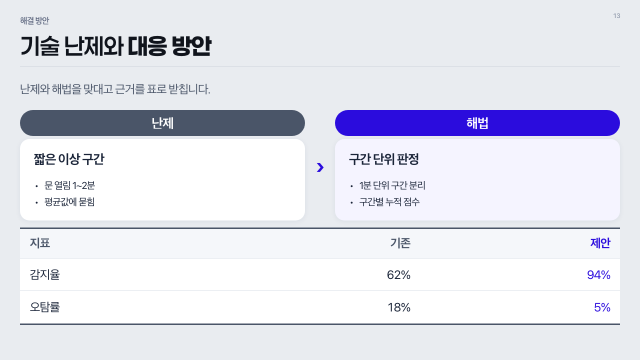
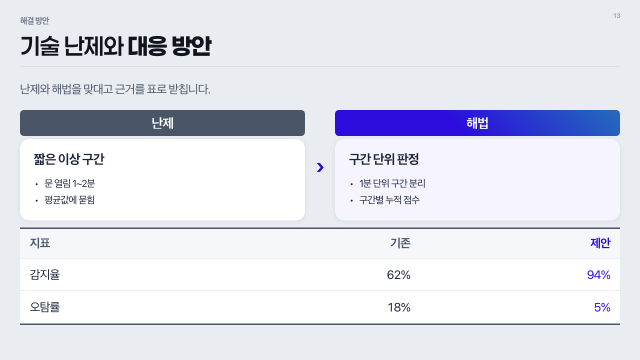
알약 모서리 8 + 초록 그라데이션, 카드는 위에서부터 채움(간격 최대 12px), 부품 체크리스트 추가
- shape.pill 999 → 8. 알약 바탕은 메인에 accent.glow(#19E68C 45%)가 오른쪽 위에서 내려오는 그라데이션(PPTX 는 단색)
- 카드·비교·단계·수치 본문을 위에서부터 채움. 덩어리·항목 사이 벌림은 최대 12px(HTML fit_slides, PPTX stack·listBox)
- templates/components.md: 부품 단위 디자인 체크리스트

diff --git a/docs/templates/deck.html b/docs/templates/deck.html
@@ -11,7 +11,7 @@
 deck-stage:not(:defined){visibility:hidden;}
 :root{
   --primary:#2B0CDD;--primary-2:#5D48FF;--primary-deep:#2815B0;
-  --primary-soft:#E8E5FF;--primary-softer:#F5F4FF;
+  --primary-soft:#E8E5FF;--pill-glow:#236EB9;--primary-softer:#F5F4FF;
   --accent:#00A89D;--gold:#C8A24B;--gold-light:#F2D78E;
   --success:#138A4E;--warning:#C97A1F;--danger:#C9302C;
   --bg-soft:#F5F7FA;--border:#D9DEE6;--border-strong:#B9C3D2;
@@ -53,7 +53,7 @@ body{font-family:var(--font);-webkit-font-smoothing:antialiased;color:var(--text
 .slabel{display:inline-flex;align-items:center;height:2.1em;padding:0 1.05em;background:var(--primary);color:#fff;font-size:var(--fs-card);font-weight:700;border-radius:8px;white-space:nowrap;line-height:1;margin-bottom:.8em;align-self:flex-start;}
 /* card: 제목 피약 + 흰 본문 — 투명 래퍼 + 독립 피약 + 독립 흰 박스 */
 .card{position:relative;background:transparent;border:0;border-radius:0;box-shadow:none;display:flex;flex-direction:column;min-height:0;overflow:visible;gap:.3em;font-size:var(--fs-body);}
-.card>.cap{background:var(--primary);color:#fff;font-size:var(--fs-card);font-weight:700;line-height:1.3;text-align:center;padding:.325em 1em;letter-spacing:-.01em;border-radius:999px;flex:0 0 auto;white-space:nowrap;}
+.card>.cap{background:linear-gradient(225deg,var(--pill-glow) 0%,var(--primary) 58%);color:#fff;font-size:var(--fs-card);font-weight:700;line-height:1.3;text-align:center;padding:.325em 1em;letter-spacing:-.01em;border-radius:8px;flex:0 0 auto;white-space:nowrap;}
 .card>.bd{background:#fff;border-radius:19px;box-shadow:var(--card-shadow);padding:.95em 1.4em 1em;display:flex;flex-direction:column;flex:1;min-height:0;overflow:hidden;}
 /* 강조 카드도 본문 박스는 흰색이다. 한 장표 안에서 카드 바탕이 서로 달라 보이면
    어느 쪽이 중요한지가 아니라 "왜 색이 다르지" 로 읽힌다. 강조는 알약 제목으로만 한다. */
@@ -63,7 +63,7 @@ body{font-family:var(--font);-webkit-font-smoothing:antialiased;color:var(--text
 .card.dark .ct{color:#fff;}
 .card .cd{font-size:var(--fs-small);color:var(--body);line-height:1.55;}
 .card.dark .cd{color:rgba(255,255,255,.85);}
-.card .fill{flex:1;min-height:0;display:flex;flex-direction:column;justify-content:space-evenly;}
+.card .fill{flex:1;min-height:0;display:flex;flex-direction:column;justify-content:flex-start;gap:12px;}   /* 위에서부터 채움, 덩어리 사이 12px */
 /* sub heading inside card: "| 채널 전체" */
 .sh2{font-size:calc(var(--fs-body) * .94);font-weight:700;color:var(--body);line-height:1.3;margin-bottom:.5em;}
 /* list */
@@ -79,8 +79,8 @@ ul.rl.row li .v{display:inline;margin-left:.5em;}
 .grid{display:grid;gap:calc(var(--gap) * 1.6);flex:1;min-height:0;}
 /* stat card: 제목 피약 + 수치 본문 — 투명 래퍼 + 독립 피약 + 독립 흰 박스 */
 .stat{position:relative;background:transparent;border-radius:0;box-shadow:none;display:flex;flex-direction:column;min-height:0;overflow:visible;gap:.3em;font-size:var(--fs-body);}
-.stat>.cap{background:var(--primary);color:#fff;font-size:var(--fs-card);font-weight:700;text-align:center;padding:.325em 1em;line-height:1.3;border-radius:999px;flex:0 0 auto;white-space:nowrap;}
-.stat>.bd{background:#fff;border-radius:19px;box-shadow:var(--card-shadow);padding:.95em 1.4em 1em;display:flex;flex-direction:column;justify-content:center;flex:1;min-height:0;overflow:hidden;}
+.stat>.cap{background:linear-gradient(225deg,var(--pill-glow) 0%,var(--primary) 58%);color:#fff;font-size:var(--fs-card);font-weight:700;text-align:center;padding:.325em 1em;line-height:1.3;border-radius:8px;flex:0 0 auto;white-space:nowrap;}
+.stat>.bd{background:#fff;border-radius:19px;box-shadow:var(--card-shadow);padding:.95em 1.4em 1em;display:flex;flex-direction:column;justify-content:flex-start;flex:1;min-height:0;overflow:hidden;}
 .stat .sl{font-size:var(--fs-small);color:var(--body);font-weight:500;}
 .stat .sv{font-size:var(--fs-stat);font-weight:800;color:var(--text);line-height:1.05;margin-top:.1em;letter-spacing:-.04em;font-variant-numeric:tabular-nums;}
 .stat .sv small{font-size:.5em;color:var(--text);margin-left:.05em;font-weight:700;}
@@ -127,12 +127,12 @@ table.rt{width:100%;border-collapse:collapse;font-size:calc(var(--fs-table) * va
 /* compare: two labeled cards */
 .cmp{display:grid;grid-template-columns:1fr 3em 1fr;align-items:stretch;flex:1;min-height:0;font-size:var(--fs-body);}
 .side{position:relative;background:transparent;border-radius:0;box-shadow:none;display:flex;flex-direction:column;min-height:0;overflow:visible;gap:.3em;}
-.side>.cap{background:var(--text-mid);color:#fff;font-size:var(--fs-card);font-weight:700;text-align:center;padding:.325em 1em;line-height:1.3;border-radius:999px;flex:0 0 auto;white-space:nowrap;}
-.side.to>.cap{background:var(--primary);}
+.side>.cap{background:var(--text-mid);color:#fff;font-size:var(--fs-card);font-weight:700;text-align:center;padding:.325em 1em;line-height:1.3;border-radius:8px;flex:0 0 auto;white-space:nowrap;}
+.side.to>.cap{background:linear-gradient(225deg,var(--pill-glow) 0%,var(--primary) 58%);}
 .side>.bd{background:#fff;border-radius:19px;box-shadow:var(--card-shadow);padding:.95em 1.4em 1em;display:flex;flex-direction:column;flex:1;min-height:0;overflow:hidden;}
 .side.to>.bd{background:var(--primary-softer);}
 .side .sh{font-size:var(--fs-card);font-weight:700;margin:.1em 0 .6em;color:var(--text);}
-.side .fill{flex:1;min-height:0;display:flex;flex-direction:column;justify-content:space-evenly;}
+.side .fill{flex:1;min-height:0;display:flex;flex-direction:column;justify-content:flex-start;gap:12px;}
 .cmp .arr{display:flex;align-items:center;justify-content:center;color:var(--primary);font-size:2.2em;font-weight:800;}
 /* roadmap (process / timeline) */
 .rm{position:relative;display:flex;flex-direction:column;flex:1;min-height:0;font-size:var(--fs-body);}
@@ -145,7 +145,7 @@ table.rt{width:100%;border-collapse:collapse;font-size:calc(var(--fs-table) * va
 .rm .step.hl{background:var(--primary-softer);} .rm .step.dk{background:var(--primary);color:#fff;}
 .rm .step .per{font-size:var(--fs-small);font-weight:700;color:var(--primary-2);letter-spacing:.02em;} .rm .step.dk .per{color:rgba(255,255,255,.8);}
 .rm .step .pt{font-size:var(--fs-card);font-weight:700;color:var(--text);margin:.2em 0 .45em;line-height:1.3;} .rm .step.dk .pt{color:#fff;}
-.rm .step .pd{font-size:var(--fs-small);color:var(--text-mid);line-height:1.45;flex:1;display:flex;flex-direction:column;justify-content:center;gap:.3em;} .rm .step.dk .pd{color:rgba(255,255,255,.85);}
+.rm .step .pd{font-size:var(--fs-small);color:var(--text-mid);line-height:1.45;flex:1;display:flex;flex-direction:column;justify-content:flex-start;gap:.3em;} .rm .step.dk .pd{color:rgba(255,255,255,.85);}
 .rm .step ul.rl{text-align:left;} .rm .step ul.rl li{font-size:var(--fs-small);}
 .rm .step.dk ul.rl li,.rm .step.dk ul.rl li .k{color:#fff;} .rm .step.dk ul.rl li::before{color:rgba(255,255,255,.7);} .rm .step.dk ul.rl li .v{color:rgba(255,255,255,.8);}
 /* image */

diff --git a/docs/design/index.html b/docs/design/index.html
@@ -236,7 +236,7 @@ tr.dirty .val input{border-color:var(--acc);color:var(--acc)}
 /* deck primitives reused in demos + slide */
 .deck{font-family:var(--deck-body);letter-spacing:-1.067px;color:#1A2438}
 .d-card{display:flex;flex-direction:column;gap:.3em;font-size:calc(var(--fs-body)*var(--k))}
-.d-card>.cap{background:var(--p);color:#fff;font-size:calc(var(--fs-card)*var(--k));font-weight:700;
+.d-card>.cap{background:linear-gradient(225deg,var(--p-glow) 0%,var(--p) 58%);color:#fff;font-size:calc(var(--fs-card)*var(--k));font-weight:700;
   line-height:1.3;text-align:center;padding:.325em 1em;border-radius:var(--r-pill);white-space:nowrap;overflow:hidden;text-overflow:ellipsis}
 .d-card>.bd{background:#fff;border-radius:var(--r-card);box-shadow:var(--card-shadow);
   padding:.95em 1.4em 1em;flex:1;min-height:0;overflow:hidden}
@@ -571,7 +571,7 @@ var DEFAULTS={
   h0:48,h0l:58.6,h0s:-1, h1:40,h1l:48,h1s:-1, h2:22,h2l:31.8,h2s:-0.2, b2:18,b2l:26.6,b2s:-0.8,
   eyebrow:17, stitle:46, lead:24, pgno:13,
   pad:40, safeBottom:44, bodyTop:220,
-  rCard:19, rBanner:14, rLabel:8, rPill:999,
+  rCard:19, rBanner:14, rLabel:8, rPill:8,
   shY:2, shBlur:12, shOp:7,
   dense:Object.assign({},DENSITY.dense), airy:Object.assign({},DENSITY.airy)
 };
@@ -598,7 +598,7 @@ function apply(){
   set('--deck-med',"'Paperlogy 5 Medium','Paperlogy','Pretendard','Noto Sans KR',sans-serif");
   set('--p',P.primary); set('--p2',P.primary2); set('--p-deep',P.primaryDeep);
   set('--p-soft',P.softBlue); set('--p-softer',P.softerBlue);
-  set('--p-banner',P.banner); set('--p-bborder',P.bannerBorder); set('--p-blabel',P.bannerLabel); set('--p-btext',P.bannerText);
+  set('--p-glow',mix(S.primary,'#19E68C',0.45)); set('--p-banner',P.banner); set('--p-bborder',P.bannerBorder); set('--p-blabel',P.bannerLabel); set('--p-btext',P.bannerText);
   set('--p-badge',P.coverBadge);
   set('--h0',(S.h0*PT).toFixed(2)+'px'); set('--h0l',(S.h0l*PT).toFixed(2)+'px'); set('--h0s',(S.h0s*PT).toFixed(3)+'px');
   set('--h1',(S.h1*PT).toFixed(2)+'px'); set('--h1l',(S.h1l*PT).toFixed(2)+'px'); set('--h1s',(S.h1s*PT).toFixed(3)+'px');

diff --git a/skills/ppt-maker/app/design-system.html b/skills/ppt-maker/app/design-system.html
@@ -236,7 +236,7 @@ tr.dirty .val input{border-color:var(--acc);color:var(--acc)}
 /* deck primitives reused in demos + slide */
 .deck{font-family:var(--deck-body);letter-spacing:-1.067px;color:#1A2438}
 .d-card{display:flex;flex-direction:column;gap:.3em;font-size:calc(var(--fs-body)*var(--k))}
-.d-card>.cap{background:var(--p);color:#fff;font-size:calc(var(--fs-card)*var(--k));font-weight:700;
+.d-card>.cap{background:linear-gradient(225deg,var(--p-glow) 0%,var(--p) 58%);color:#fff;font-size:calc(var(--fs-card)*var(--k));font-weight:700;
   line-height:1.3;text-align:center;padding:.325em 1em;border-radius:var(--r-pill);white-space:nowrap;overflow:hidden;text-overflow:ellipsis}
 .d-card>.bd{background:#fff;border-radius:var(--r-card);box-shadow:var(--card-shadow);
   padding:.95em 1.4em 1em;flex:1;min-height:0;overflow:hidden}
@@ -571,7 +571,7 @@ var DEFAULTS={
   h0:48,h0l:58.6,h0s:-1, h1:40,h1l:48,h1s:-1, h2:22,h2l:31.8,h2s:-0.2, b2:18,b2l:26.6,b2s:-0.8,
   eyebrow:17, stitle:46, lead:24, pgno:13,
   pad:40, safeBottom:44, bodyTop:220,
-  rCard:19, rBanner:14, rLabel:8, rPill:999,
+  rCard:19, rBanner:14, rLabel:8, rPill:8,
   shY:2, shBlur:12, shOp:7,
   dense:Object.assign({},DENSITY.dense), airy:Object.assign({},DENSITY.airy)
 };
@@ -598,7 +598,7 @@ function apply(){
   set('--deck-med',"'Paperlogy 5 Medium','Paperlogy','Pretendard','Noto Sans KR',sans-serif");
   set('--p',P.primary); set('--p2',P.primary2); set('--p-deep',P.primaryDeep);
   set('--p-soft',P.softBlue); set('--p-softer',P.softerBlue);
-  set('--p-banner',P.banner); set('--p-bborder',P.bannerBorder); set('--p-blabel',P.bannerLabel); set('--p-btext',P.bannerText);
+  set('--p-glow',mix(S.primary,'#19E68C',0.45)); set('--p-banner',P.banner); set('--p-bborder',P.bannerBorder); set('--p-blabel',P.bannerLabel); set('--p-btext',P.bannerText);
   set('--p-badge',P.coverBadge);
   set('--h0',(S.h0*PT).toFixed(2)+'px'); set('--h0l',(S.h0l*PT).toFixed(2)+'px'); set('--h0s',(S.h0s*PT).toFixed(3)+'px');
   set('--h1',(S.h1*PT).toFixed(2)+'px'); set('--h1l',(S.h1l*PT).toFixed(2)+'px'); set('--h1s',(S.h1s*PT).toFixed(3)+'px');

diff --git a/skills/ppt-maker/templates/components.md b/skills/ppt-maker/templates/components.md
@@ -1,0 +1,86 @@
+# 장표 부품 체크리스트
+
+장표를 이루는 부품 단위로 디자인을 정해 간다. 표를 정했던 것처럼 부품 하나씩 정하고, 정하면 상태를 바꾼다.
+2026-10-09 기준. 레이아웃 24종은 `references/outline-templates.md`, 값은 `design-tokens.json`·`design-system/`.
+
+상태 — **완료**: 정함 · **점검**: 그려지지만 디자인을 한 번 봐야 함 · **필요**: 디자인이 없거나 지금 모양이 어색함
+
+## A. 장표 머리와 꼬리 (모든 본문 장표 공통)
+
+| 부품 | 쓰이는 곳 | 상태 | 정할 것 · 정한 것 |
+| --- | --- | --- | --- |
+| 아이브로우(섹션명) | 본문 전체 | 완료 | 17px, `--body` #515B75 |
+| 장 번호(몇 번째 장인지) | 본문 전체 | 완료 | 13px `--text-light`, 오른쪽 위 모서리 y=22 |
+| 헤드라인 | 본문 전체 | 완료 | 46px, 강조 구절 굵게. 두 줄이면 본문 시작을 내림 |
+| 구분선 | 본문 전체 | 완료 | 1px #CFD4DC |
+| 리드(3번째 줄) | 본문 전체 | 완료 | 24px `--text-mid`, `~습니다` |
+| 출처·각주 | 수치·인용 장표 | 점검 | 맨 아래 작은 글씨. 크기·색·위치 |
+
+## B. 카드 계열
+
+| 부품 | 쓰이는 곳 | 상태 | 정할 것 · 정한 것 |
+| --- | --- | --- | --- |
+| 알약 제목(캡슐) | 05·08·09·18·20·23 등 카드가 있는 모든 곳 | 완료 | 24px, 모서리 8, 오른쪽 위에서 초록(#19E68C 45%) 그라데이션. PPTX 는 단색 |
+| 흰 카드(본문 상자) | 같음 | 완료 | 위에서부터 채움, 덩어리·항목 사이 최대 12px. 남는 공간은 아래 여백 |
+| 카드 안 소제목(`\| 소제목`) | 카드·컬럼·비교 | 점검 | 16pt 회색 굵게. 본문과 간격 |
+| 불릿 목록 | 카드·컬럼·배너·불릿 장표 | 점검 | 점 모양, 줄 간격(자동), `k:v` 두 줄 항목 |
+| 카드 안 작은 표(`rows` 라벨·값) | 지표 카드 | 점검 | 라벨 회색·값 굵게, 선. 큰 표와 다른 모양 |
+| 강조 박스(`highlight`) | 지표 카드 | 점검 | 연한 메인 컬러 바탕. 글자 크기 |
+| 반전 카드(`dark`) | 14·16 마지막 단계 | 점검 | 메인 컬러 바탕·흰 글자 |
+| 연한 카드(`tint`) | 15 TO-BE | 점검 | 연한 메인 컬러 바탕 |
+
+## C. 숫자와 데이터
+
+| 부품 | 쓰이는 곳 | 상태 | 정할 것 · 정한 것 |
+| --- | --- | --- | --- |
+| 표 | 12·22 | 완료 | 글자 22px, 위아래 3px #4A5568, 안쪽 1px #D9DEE6, 타이틀 영역 연회색 바탕·굵게, 수치 열만 오른쪽, 강조 열은 글자색만, 넘치면 여러 장 |
+| 병합 머리글 표 | 2~3단 머리글(〈표 1〉) | 필요 | 묶음 머리글 칸 모양. 기능도 새로 |
+| 상태 배지(달성·진행중·미달) | 표 안 | 완료 | 표 글자 0.8배, 색 4종 |
+| 큰 수치(`stat`) | 10·20 | 필요 | 숫자가 작고 떠 있음. 크기, 단위 크기, 보조 문장 위치 |
+| 그래프(막대·선) | 10-1 | 점검 | shadcn 모양. 색·굵기·값 라벨 |
+| 간트 막대 | 14-1 | 점검 | 막대 톤 4종, 격자선 |
+| KPI 목표 대비 실적(진행 바) | 고객사 제안 ROI, 연차보고 | 필요 | 새 부품 |
+| 비율 그래프(도넛·가로 막대) | IR 자금 사용처 | 필요 | 새 부품. 그래프 종류 추가 |
+
+## D. 절차·관계
+
+| 부품 | 쓰이는 곳 | 상태 | 정할 것 · 정한 것 |
+| --- | --- | --- | --- |
+| 단계 번호 원 + 연결선 | 14·16 | 점검 | 원 크기·색, 선 굵기 |
+| 기간 라벨("1분기") | 14 | 점검 | 단계 카드 위 작은 글씨 |
+| 비교 화살표(›) | 15·22 | 점검 | 크기·색 |
+| AS-IS 회색 알약 | 15 | 점검 | 회색 단계 |
+| 연혁 항목(연도 + 일 2~3개, 세로) | 회사 소개서·IR | 필요 | 새 부품 |
+| 조직도 상자 + 연결선 | 정부 과제·내부 보고·IR | 필요 | 새 부품 |
+
+## E. 글 강조와 그림
+
+| 부품 | 쓰이는 곳 | 상태 | 정할 것 · 정한 것 |
+| --- | --- | --- | --- |
+| 배너 기본 | 장표 맨 아래 | 완료 | 메인 12% 바탕, 테두리 메인 32%, 라벨 포인트 컬러, 라벨은 본문 첫 줄 높이 |
+| 배너 주의(`warn`) | 위험·미달·주의사항 | 완료 | #C9302C 바탕, 흰 라벨, 연분홍 본문 |
+| 배너 강조(`strong`) | 덱의 결론 한 줄 | 완료 | #10141C 바탕, 흰 라벨, 연회색 본문 |
+| 인용 블록(큰 문장 + 말한 사람) | 13 | 필요 | 지금은 배너 한 줄뿐 |
+| 그림 자리표시자(점선 칸) | 06·07·11·17·21·24 | 점검 | 점선 색·글자 대비(주의 경고 나옴) |
+| 그림 캡션 | 그림 있는 곳 | 점검 | 크기·위치 |
+| 사진 격자 칸 | 17 | 필요 | 알약 없는 사진 중심 칸 |
+| 로고 칸 | 24 | 필요 | 알약 없는 로고 칸, 크기·간격 |
+| 팀원 카드(이름·직책·이력) | 18 | 필요 | 알약 대신 이름 위계 |
+| 특허·인증 배지 | 회사 소개서·IR | 필요 | 새 부품 |
+| 거점 핀·지도 | 회사 소개서 | 필요 | 새 부품 |
+
+## F. 고정 장표 (부품이 아니라 장표 통째)
+
+| 장표 | 상태 | 정할 것 · 정한 것 |
+| --- | --- | --- |
+| 표지 | 완료 | 배경 그림 7종 |
+| 목차 | 필요 | 항목이 작게 몰려 있고 아래가 빔 |
+| 간지 | 완료 | 그라데이션 + 워터마크 |
+| 마무리 | 점검 | 연락처 칸이 작음 |
+
+## 추천 순서
+
+1. C 큰 수치
+2. E 인용 블록, 팀원 카드, 로고 칸
+3. 새 부품 — 연혁, 조직도, KPI 진행 바, 비율 그래프
+4. 나머지 점검 항목

diff --git a/skills/ppt-maker/references/design-system.md b/skills/ppt-maker/references/design-system.md
@@ -10,6 +10,7 @@
 
 `scripts/build_html.mjs`(HTML)와 `scripts/build_pptx.mjs`(PPTX)가 구현한다. 예전 디자인은 `*_classic.mjs`(초기)와 스크래치 백업(연차보고서 헤더 바 스타일)에만 남아 있다.
 
+- **알약 제목**(2026-10-09): 모서리 8px(`shape.pill`), 바탕은 메인 컬러에 오른쪽 위에서 초록(`accent.glow` #19E68C 45%)이 살짝 내려오는 그라데이션(`linear-gradient(225deg)`). PPTX 는 단색.
 - **컬러·글꼴 원본**(2026-10-09): 컬러는 `design-system/colors.json`(primary 800·700·600·400·300·200, 회색, 상태색), 글꼴은 `design-system/fonts.json`. 크기·여백·모서리는 `design-tokens.json`. 메인 = primary 600 `#2B0CDD`, 보조 = primary 400 `#5D48FF`. 메인이 스케일의 600 과 같으면 진한 단계(간지 그라데이션 등)는 스케일의 800·700 을 그대로 쓴다.
 - **팔레트**: 배경 연회색 `--page` #E9ECF0, 카드 흰색 + 그림자 `0 2px 12px rgba(20,40,80,.07)`, `--primary` 포인트 컬러(#2F0CC5 보라, 카드 상단 띠·강조), `--primary-2` 파랑(#1E5BB8, 보조 수치 문장·그래프 선), 연파랑 틴트(`--primary-softer`, 강조 박스·TO-BE 카드), 본문 #1A2438 / 보조 #4A5568. 이모지·그라디언트 텍스트·다중 그림자 금지. Pretendard, 자간 -0.015em~-0.03em(제목).
 - **본문 장표 골격**(1280×720, **좌우 여백 40px** — 사용자 원본 PPTX 기준): 아이브로우 17px(y=30, `--body` #515B75, **그 장표가 속한 목차(섹션) 이름 하나만**) · 장 번호(몇 번째 장인지, 13px `--text-light`)는 아이브로우 줄과 따로 **오른쪽 위 모서리**(y=22)에 → 헤드라인 **34.5pt(46px)** 검정 계열 `--title` #10141C(y=61, `**강조**` 는 같은 색 800 굵기) → 1px 구분선(y=116, 여백 안쪽 전체 너비) → lead 18pt(24px) 회색(y=143, 줄간격 150%) → 본문(카드, 리드 1줄이면 y=220 부터) → 맨 아래 배너 → 출처·각주(있을 때만). 헤더 바 없음. 표지·간지·마무리는 그라디언트 배경.
